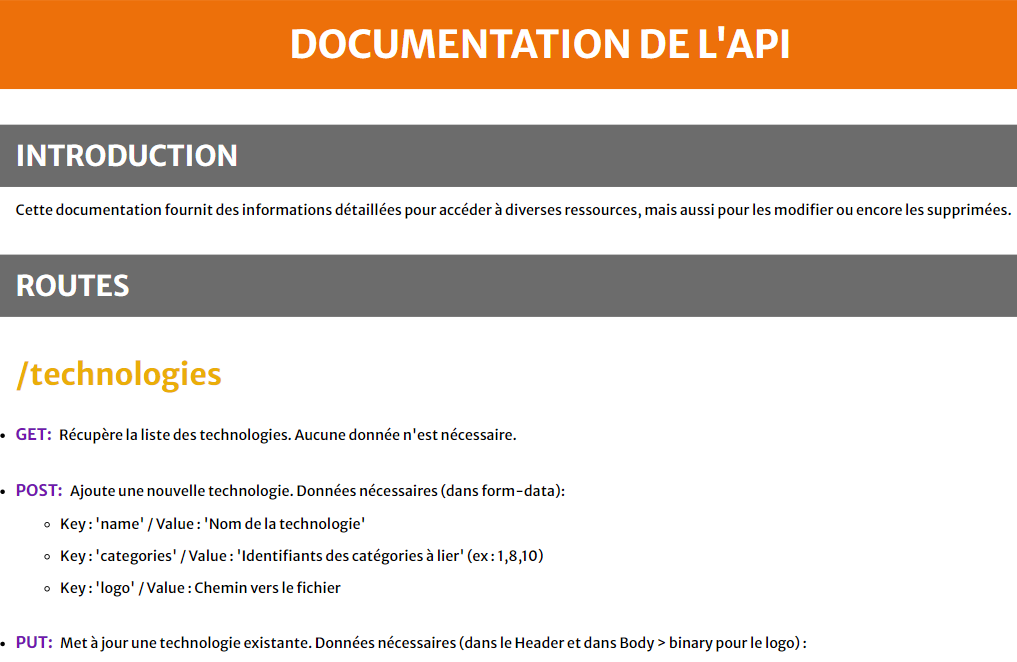
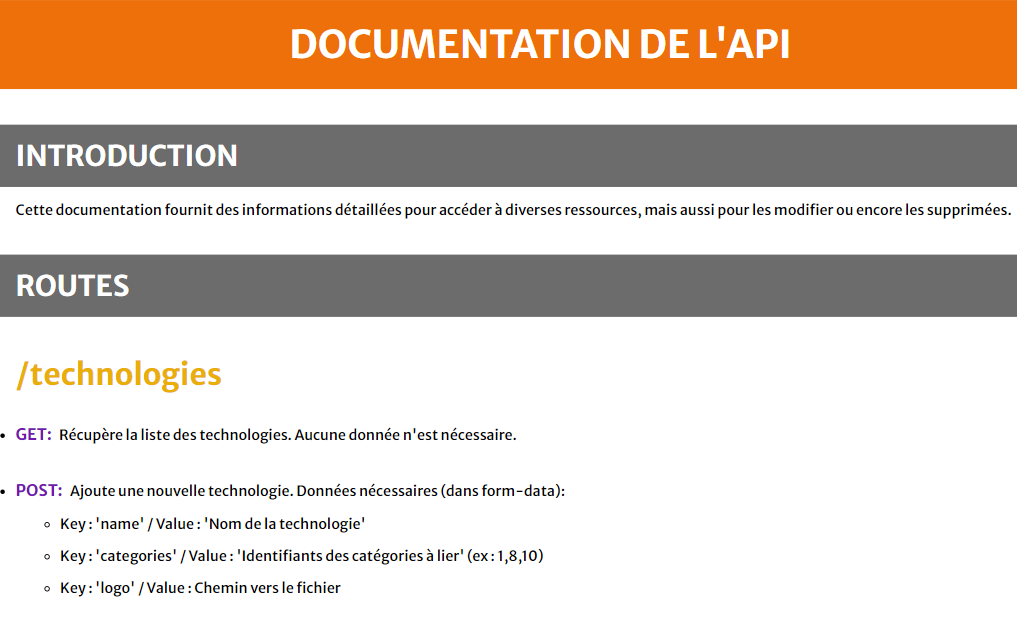
Update project API photo

diff --git a/src/components/sections/callToAction.jsx b/src/components/sections/callToAction.jsx
@@ -2,24 +2,30 @@ import React from 'react'
 import { Link } from 'react-router-dom'
 import { RiDownloadLine } from '@remixicon/react'
 import SlideUp from '../../utlits/animations/slideUp'
+import { useLocation } from 'react-router-dom';
 
 const CallToAction = () => {
+
+    const location = useLocation(); 
+
     return (
         <section className="call-to-action-area">
             <div className="container">
                 <div className="row">
                     {/* <!-- START ABOUT TEXT DESIGN AREA --> */}
-                    <div className="col-lg-12">
-                        <SlideUp>
-                            <div className="about-content-part call-to-action-part text-center">
-                                <h2>Are You Ready to kickstart your project with a touch of magic?</h2>
-                                <p>Reach out and let's make it happen ✨. I am available for an apprenticeship, whether on-site or remotely, to deliver exceptional work and actively contribute to your team!</p>
-                                <div className="hero-btns">
-                                    <Link to="/contact" className="theme-btn">Let's Talk  <i><RiDownloadLine size={16} /></i></Link>
+                    {location.pathname.endsWith('/contact') ? null : (
+                        <div className="col-lg-12">
+                            <SlideUp>
+                                <div className="about-content-part call-to-action-part text-center">
+                                    <h2>Are You Ready to kickstart your project with a touch of magic?</h2>
+                                    <p>Reach out and let's make it happen ✨. I am available for an apprenticeship, whether on-site or remotely, to deliver exceptional work and actively contribute to your team!</p>
+                                    <div className="hero-btns">
+                                        <Link to="/contact" className="theme-btn">Let's Talk  <i><RiDownloadLine size={16} /></i></Link>
+                                    </div>
                                 </div>
-                            </div>
-                        </SlideUp>
-                    </div>
+                            </SlideUp>
+                        </div>
+                    )}
                     {/* <!-- / END ABOUT TEXT DESIGN AREA --> */}
                 </div>
             </div>

diff --git a/src/assets/css/responsive.css b/src/assets/css/responsive.css
@@ -245,6 +245,7 @@ Version      : 1.0
 
     .experience-list {
         margin-top: 30px;
+        height: 100%; 
     }
 
     .single-project-page-right {
